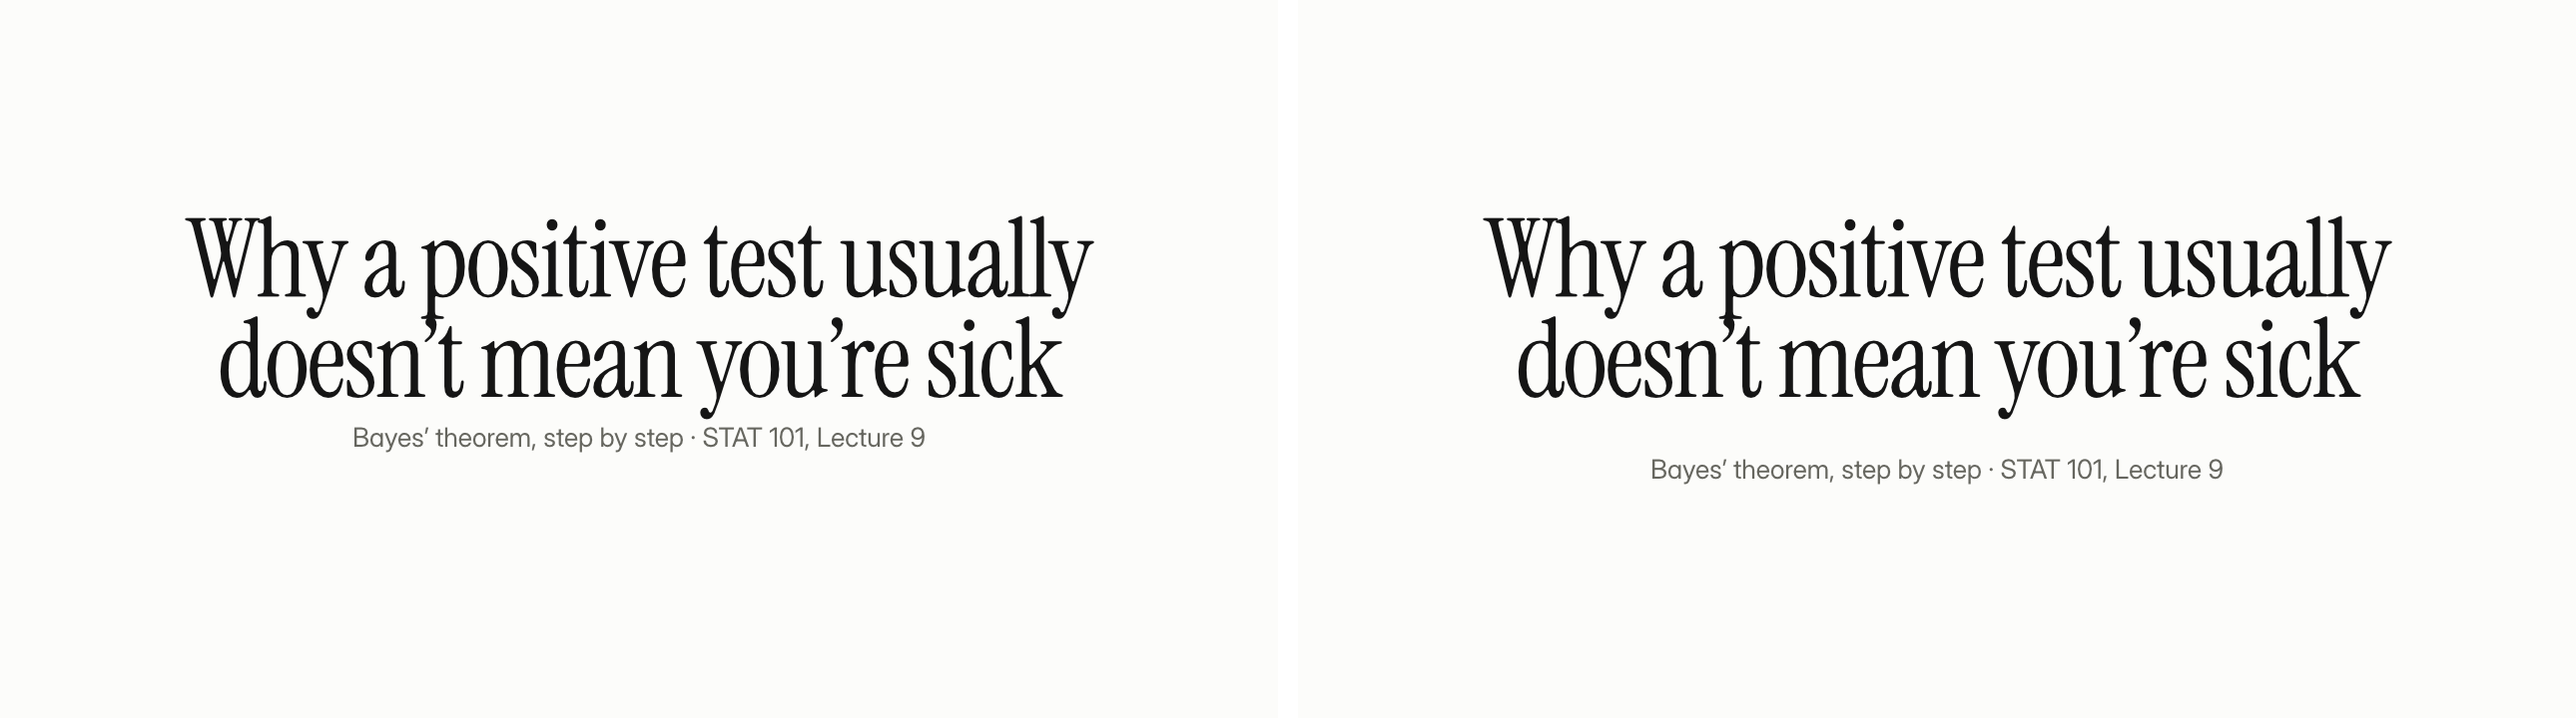
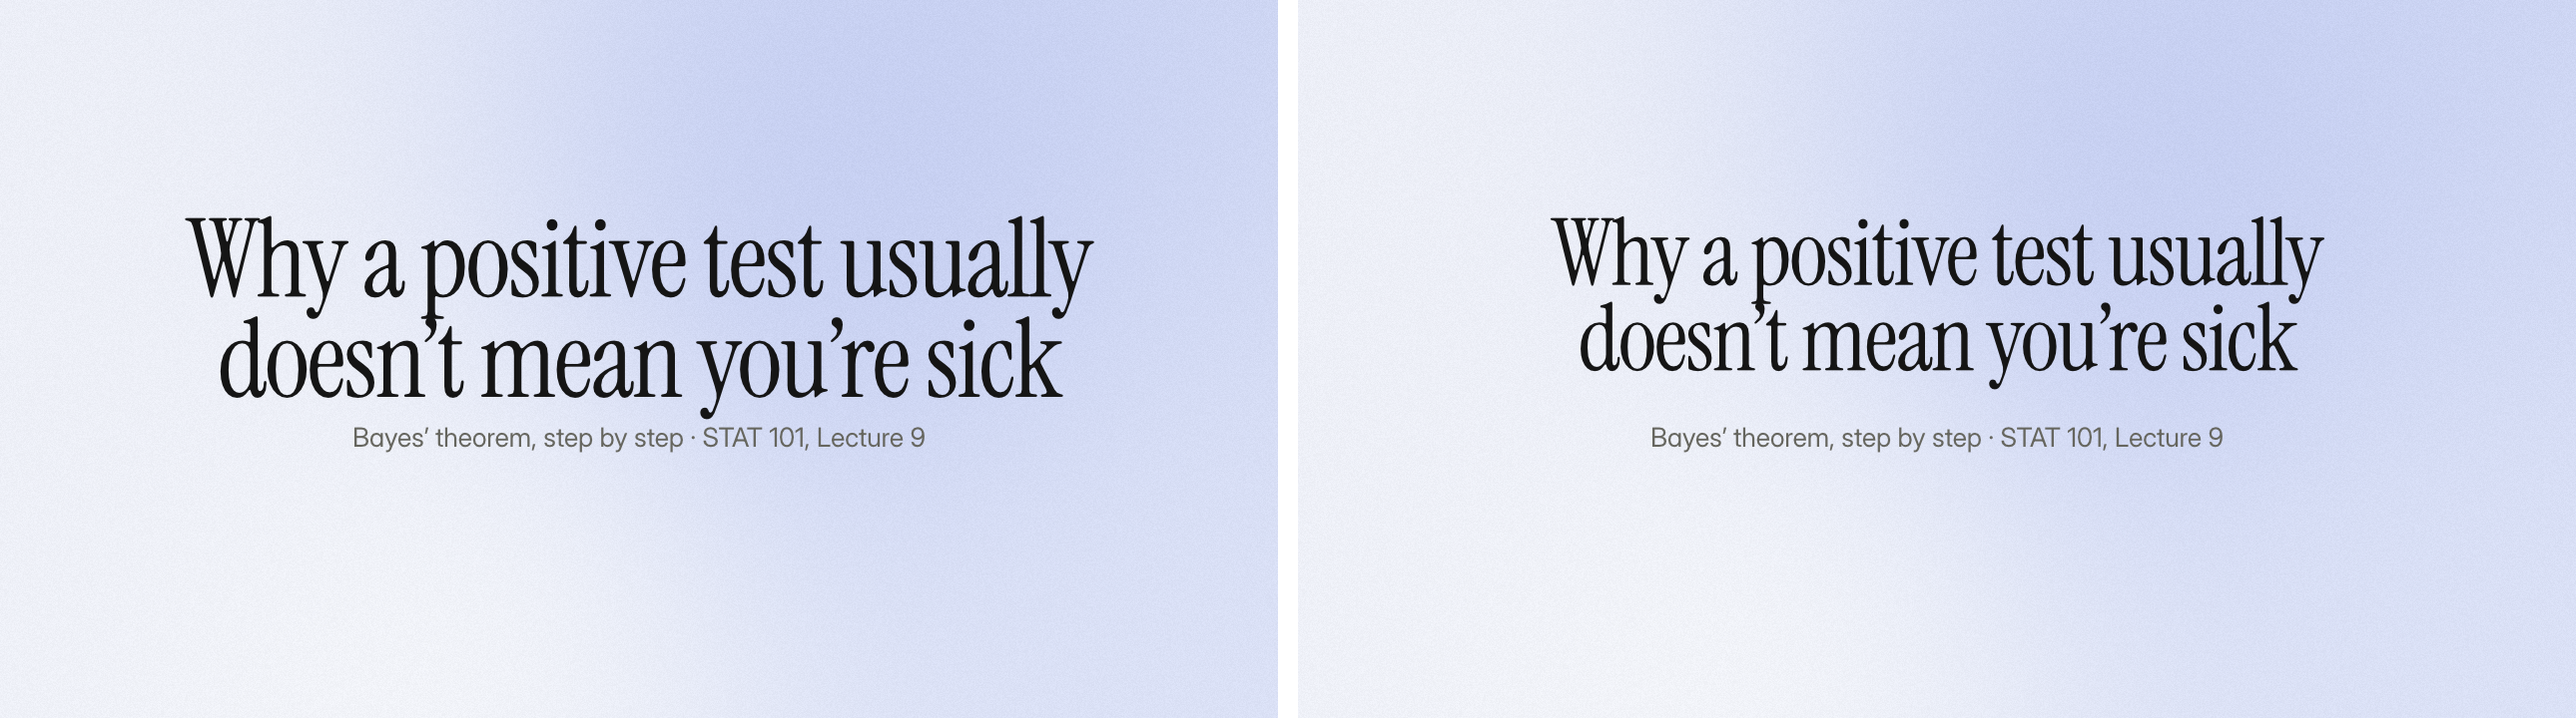
D2 (a): sheets, changed slides, and headlines that fill, before (main 7cd41e1b) and after
Claude-Session: https://claude.ai/code/session_013Psn9KqDQ4xXYdGTTjp9n8

diff --git a/README.md b/README.md
@@ -1,3 +1,3 @@
 # D2 sheets (not for merging)
 
-Before (main a33cc543) and after (fix/end-descenders): each theme's contact sheet, and every slide of the six dogfood decks that changed, before at left and after at right, drawn at 1280.
+Before: main 7cd41e1b. After: fix/end-descenders on it. Each theme's contact sheet; every slide of the six dogfood decks that draws otherwise, before at left and after at right, at 1280; and a Title and a Poster whose headline fills its box (fills-title-poster.png).
